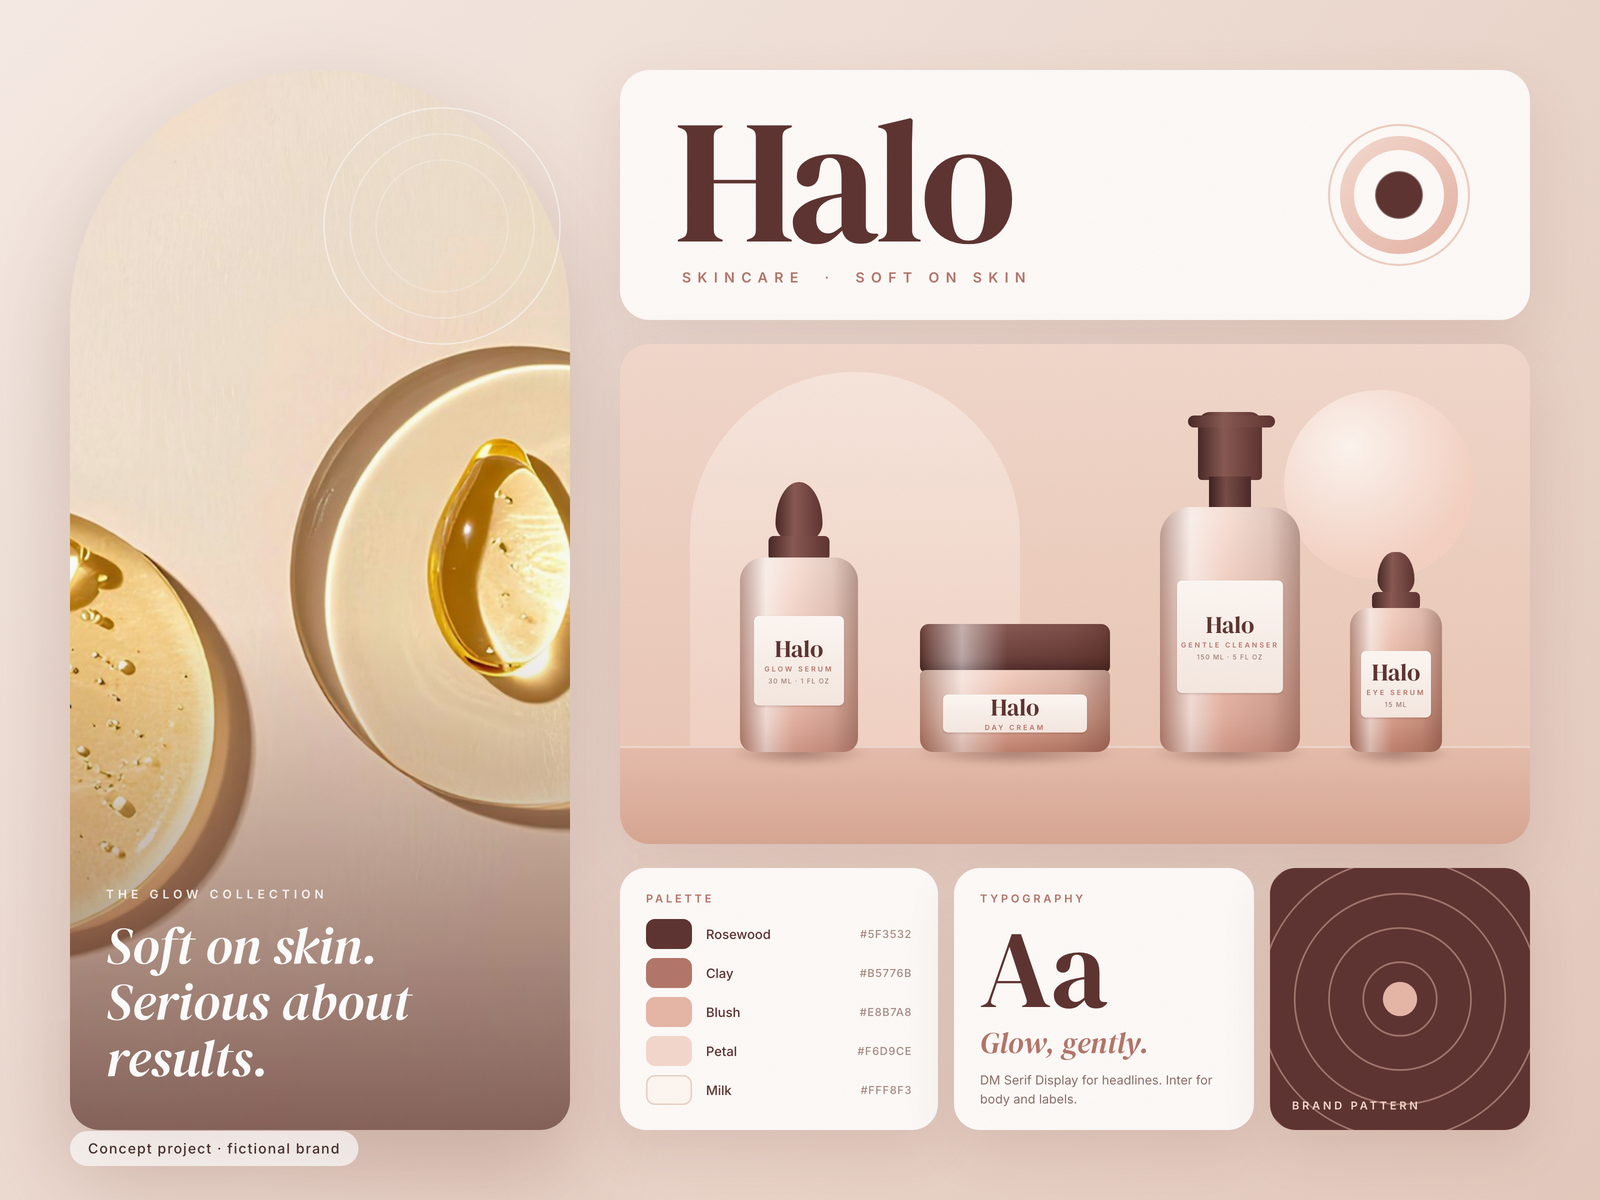
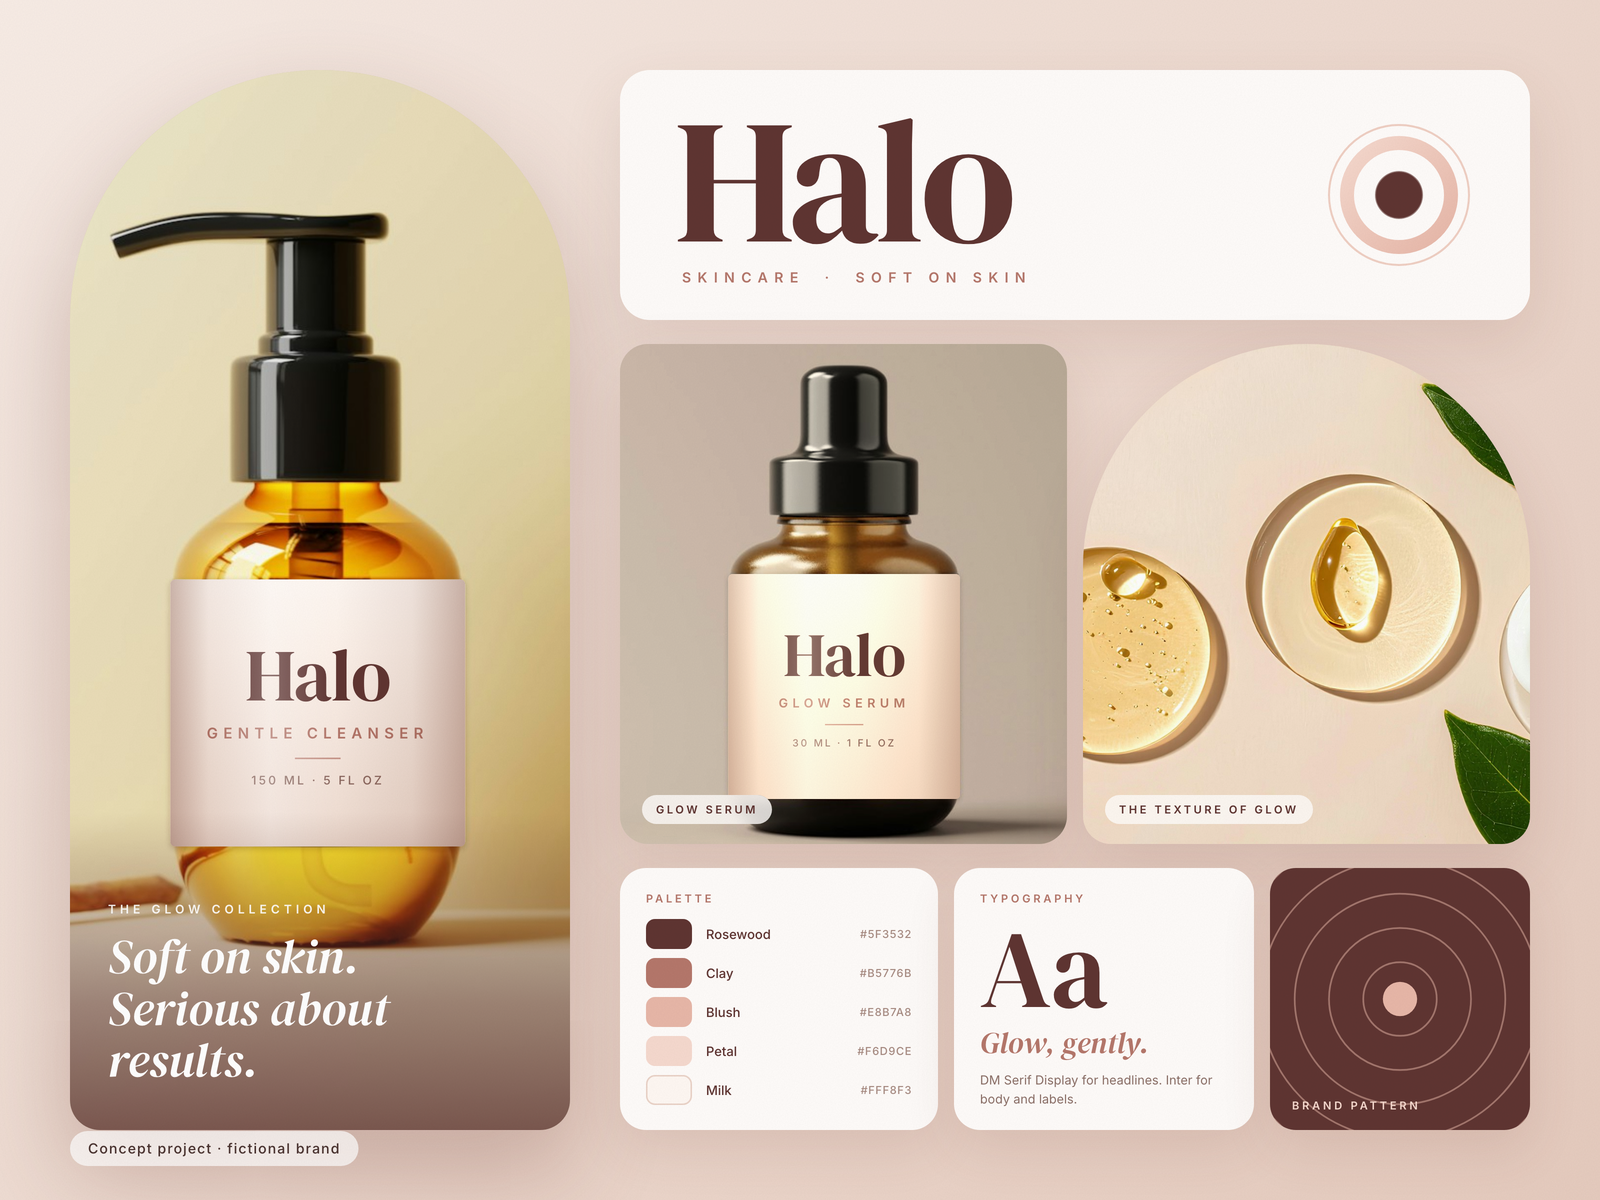
Halo Skincare: real bottle photography with Halo labels

diff --git a/index.html b/index.html
@@ -129,7 +129,7 @@ footer .wrap{display:flex;justify-content:space-between;flex-wrap:wrap;gap:12px}
     <figure class="piece"><img src="assets/work/bloom-cafe-v3.jpg" alt="Concept website for a neighbourhood café, shown on desktop and mobile" loading="lazy" width="1600" height="1200"><figcaption><b>Bloom Café</b><span>Website · Brand</span></figcaption></figure>
     <figure class="piece"><img src="assets/work/orbit-fitness-v3.jpg" alt="Concept website and app screens for a fitness challenge brand" loading="lazy" width="1600" height="1200"><figcaption><b>Orbit Fitness</b><span>Website · App</span></figcaption></figure>
     <figure class="piece"><img src="assets/work/northwind-studio-v3.jpg" alt="Concept website for an architecture and interiors studio" loading="lazy" width="1600" height="1200"><figcaption><b>Northwind Studio</b><span>Website</span></figcaption></figure>
-    <figure class="piece"><img src="assets/work/halo-skincare-v3.jpg" alt="Concept brand identity and packaging for a skincare line" loading="lazy" width="1600" height="1200"><figcaption><b>Halo Skincare</b><span>Brand identity</span></figcaption></figure>
+    <figure class="piece"><img src="assets/work/halo-skincare-v4.jpg" alt="Concept brand identity and packaging for a skincare line" loading="lazy" width="1600" height="1200"><figcaption><b>Halo Skincare</b><span>Brand identity</span></figcaption></figure>
     <figure class="piece"><img src="assets/work/pulse-records-v3.jpg" alt="Concept website and player for an independent record label" loading="lazy" width="1600" height="1200"><figcaption><b>Pulse Records</b><span>Website · Music</span></figcaption></figure>
     <figure class="piece"><img src="assets/work/summit-co-v3.jpg" alt="Concept website and social post for an outdoor gear brand" loading="lazy" width="1600" height="1200"><figcaption><b>Summit Co.</b><span>Website · Social</span></figcaption></figure>
   </div>
